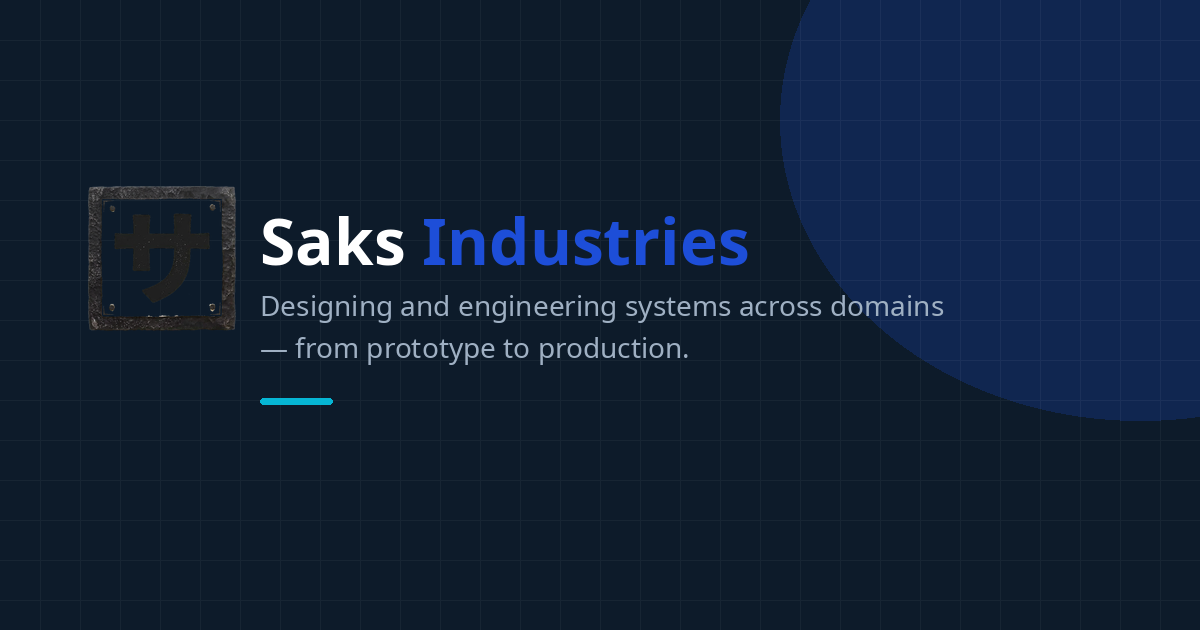
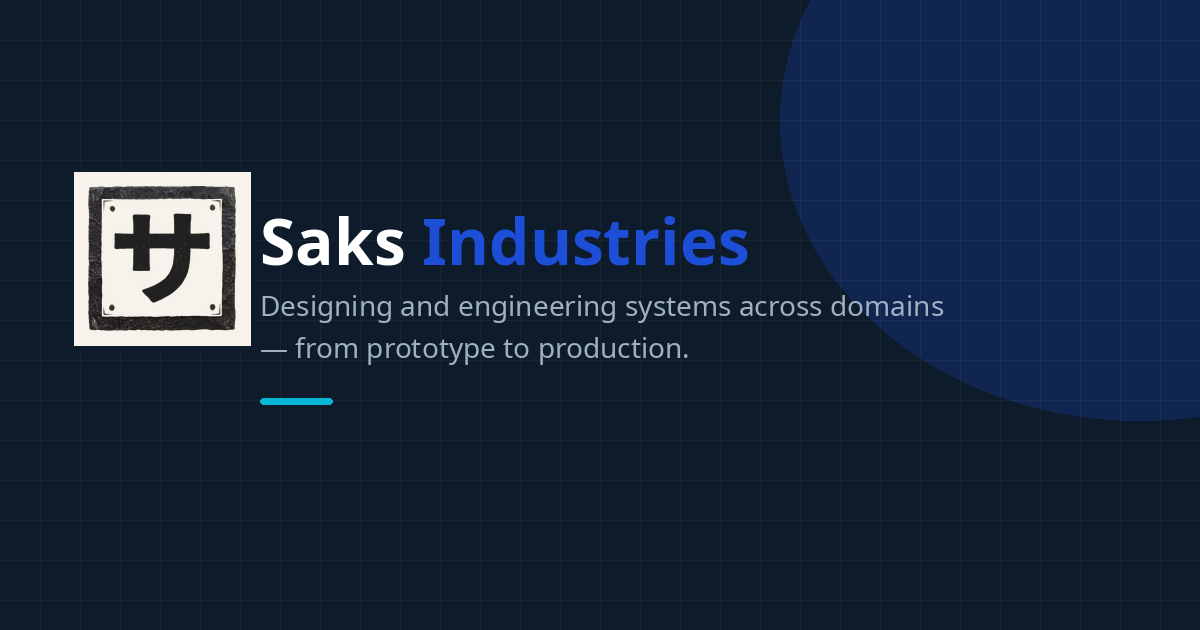
暗いフッターと共有画像では、公式銘板の後ろに和紙の板を置く

Changed region(s): [[0.0617, 0.2714, 0.2158, 0.573]]

diff --git a/site/assets/styles.css b/site/assets/styles.css
@@ -405,6 +405,12 @@ p  { margin: 0 0 1em; }
 
 /* ---- Footer -------------------------------------------------------------- */
 .site-footer { background: var(--bg-ink); color: var(--on-ink-mut); padding: 56px 0 28px; }
+/* The official mark's inner panel is transparent. On the dark footer, a washi
+   tile sits behind the image so the サ stays visible. The PNG is unchanged. */
+.site-footer .brand-mark {
+  background-color: #f7f3ec;
+  box-shadow: 0 0 0 3px #f7f3ec, 0 0 0 4px var(--ink);
+}
 .footer-grid { display: grid; grid-template-columns: 1.6fr 1fr 1fr; gap: 40px; }
 .site-footer .brand-name { color: #fff; }
 .site-footer .brand-name span { color: var(--brand); }
